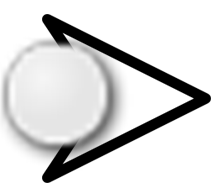
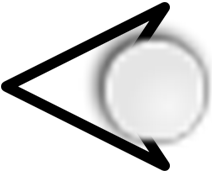
Changed css fonts, arrow, and re-located ball

diff --git a/script.js b/script.js
@@ -7,17 +7,17 @@ $(document).ready(function(){
 // onCollision = {}
 // alert {}
 // restart game after ball in hole
+
 //CLICK COUNTER ON MOUSE-UP - called within ball
 function clickCounter() {
     counter++;
     $("#theCount").text(counter);
 };
-
+console.log(clickCounter);
 /*********************************************/
 //DECALRE THE EVENT LISTENERS
 /*********************************************/
 // Ball goes into hole - hidden and restart
-// Shot count = on each *mouseup*
 
 
 /*********************************************/
@@ -41,8 +41,8 @@ var counter = 0;
 // console.log(offsetArray);
 
 //COOREDINATES DEFINED TO THE LEFT
-var y = 407;
-var x = 8;
+var y = $('#box').offset().top;
+var x = $('#box').offset().left;
 // GOLF BALL ROTATE FUNCTION
 (function() {
     
@@ -55,8 +55,10 @@ var x = 8;
     ball.mousedown(function(e) {
     dragging = true;
     offset = Math.atan2(ball.centerY - e.pageY, e.pageX - ball.centerX);
+    console.log('mousedown');
     //EVENT LISTENER: ADD TRAJECTORY GUIDE
-    $('#box').addClass('arrow');
+    // $('#box').addClass('arrow');
+    $('#box').css('background-image', 'url(images/arrow2.png)');
 })
 
     //EVENT LISTENER FOR MOUSEUP
@@ -70,11 +72,11 @@ var x = 8;
             x += dx;
             y += dy;
             $("#box").offset({top: y, left: x});
-            if ( Math.abs(x * Math.cos(r)) > 100 ){
+            if ( Math.abs(x * Math.cos(r)) > 400 ){
             clearInterval(password);
             } 
         }, 2)
-
+        $('#box').css('background-image', 'url(images/golf-ball.png)');
         clickCounter()
     })
     

diff --git a/style.css b/style.css
@@ -2,14 +2,18 @@ body {
     background-image: url("images/green-title-background.png");
     /*background-position: center; 
     background-repeat: no-repeat;*/
+    user-select: none;
 }
 
 #box{
-    width: 40px;
-    height: 40px;
+    width: 30px;
+    height: 30px;
     background: url(images/golf-ball.png) no-repeat; 
     background-size: 100% 100%;
     position: absolute;
+    z-index: 2;
+    top: 75px;
+    left: 270px;
     /*margin-left: 50%;
     margin-top: 10%;*/
     /*display: inline-block;*/
@@ -19,6 +23,7 @@ body {
 }
 
 .Main-container {
+  position: relative;
   max-width: 850px;
   display: inline-block;
   margin-left: 25%;
@@ -28,10 +33,11 @@ body {
   -webkit-user-select: none;
   user-select: none;
 }
-/*
+
 div #green-background {
-  margin-left: 50%
-}*/
+  z-index: 1;
+  position: absolute;
+}
 
 #rollBall {
   position: absolute;
@@ -39,20 +45,34 @@ div #green-background {
   height: 40px;
 }
 
-p {
+h1 {
   font-size: 30px;
   text-align: center;
-  font-family: helvetica;
   color: white;
+  font-family: 'Permanent Marker', cursive;
+}
+
+
+p {
+  font-size: 20px;
+  text-align: center;
+  color: white;
+  font-family: 'Permanent Marker', cursive;
 }
 
 .arrow {
-  -moz-user-select: none;
+/*  -moz-user-select: none;
   -webkit-user-select: none;
-  user-select: none;
+  user-select: none;*/
+  
+  /*border: 1px solid red;*/
 }
 
 #theCount {
-  margin-left: 75%;
+  margin-left: 85%;
+  margin-top: 32%;
   color: white;
+  font-family: 'Permanent Marker', cursive;
+  font-size: 30px;
+  user-select: none;
 }

diff --git a/index.html b/index.html
@@ -4,6 +4,7 @@
   <link rel="icon" href="http://s15.postimg.org/42isgdcxz/favicon.png" type="image/x-icon"/>
   <meta charset="UTF-8">
   <title>Mini Golf</title>
+  <link href='https://fonts.googleapis.com/css?family=Permanent+Marker' rel='stylesheet' type='text/css'>
   <link rel="stylesheet" href="style.css">
   <script src="https://cdnjs.cloudflare.com/ajax/libs/jquery/2.1.4/jquery.js"></script>
   <script src="script.js"></script>
@@ -11,20 +12,24 @@
 </head>
 
 <body>
-  <p>Basic Mini Golf</p>
+  <h1>Basic Mini Golf</h1>
   <div class="Main-container">
+
+    <div id="box"> <!-- Golf ball DIV-->
+    </div>
+
     <img src="images/course.png" id="green-background">
     
   </div>
-  <div id="box"> <!-- Golf ball DIV-->
-    </div>
   <!-- <div>
   <img src="images/arrow2.png" id="rollBall">
   </div> -->
-<br>
-<br>
-<br>
-<br>
+  <p>
+  Par:<br>
+  Shots:<br>
+  Player:<br>
+  </p>
+
 
   <div id="theCount"></div>
     <br/>
